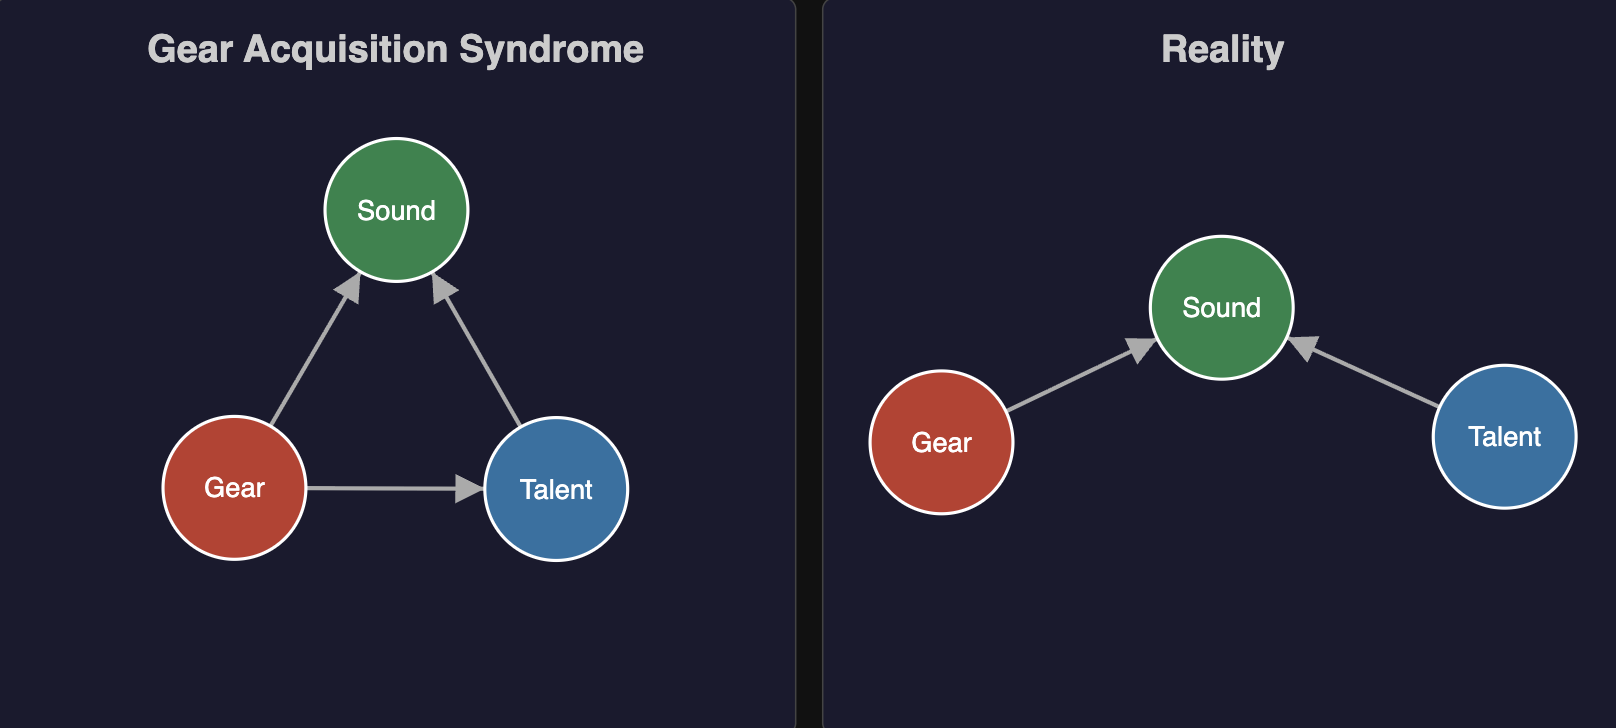
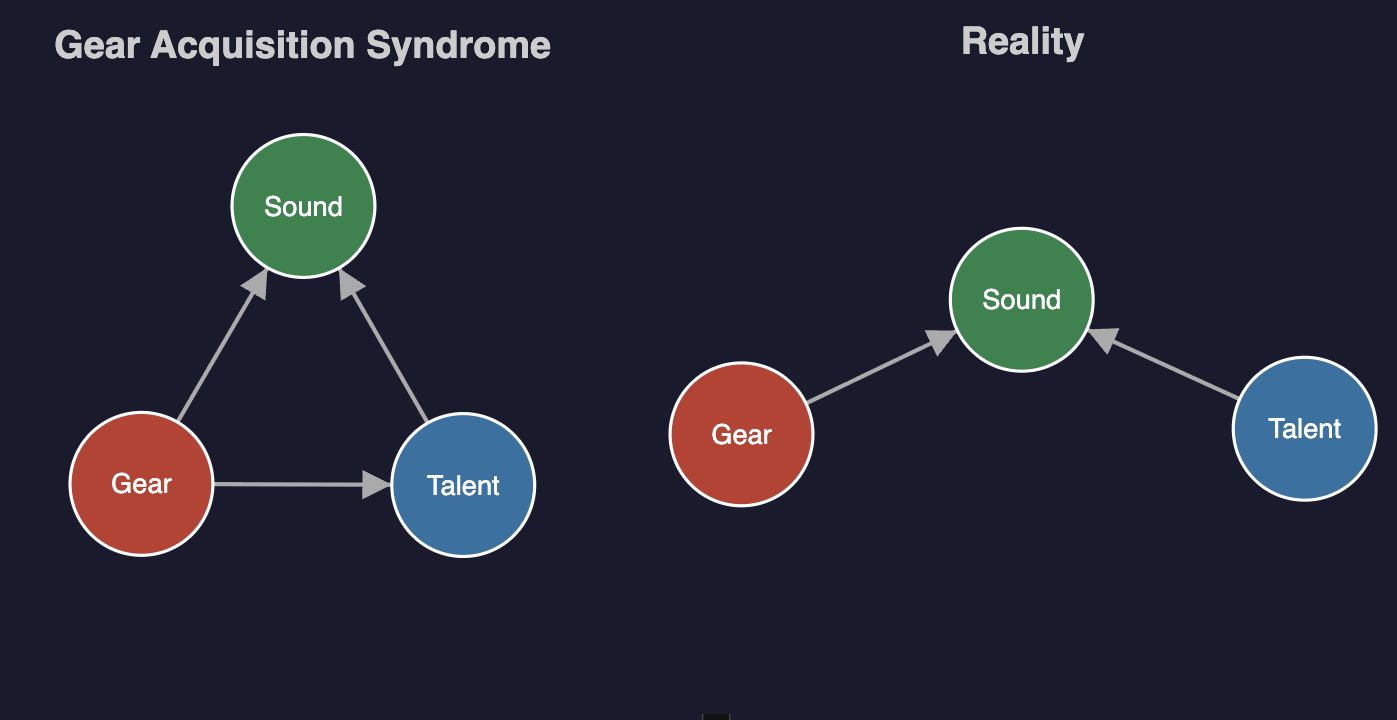
Built site for gh-pages

diff --git a/posts/CausalCatapult.html b/posts/CausalCatapult.html
@@ -178,13 +178,13 @@ window.Quarto = {
 <meta property="og:description" content="Launching over the walls of math">
 <meta property="og:image" content="https://drscotthawley.github.io/blog/posts/images/catapult.png">
 <meta property="og:site_name" content="Scott H. Hawley">
-<meta property="og:image:height" content="728">
-<meta property="og:image:width" content="1616">
+<meta property="og:image:height" content="720">
+<meta property="og:image:width" content="1397">
 <meta name="twitter:title" content="Catapulting into Causal Modeling [DRAFT] – Scott H. Hawley">
 <meta name="twitter:description" content="Launching over the walls of math">
 <meta name="twitter:image" content="https://drscotthawley.github.io/blog/posts/images/catapult.png">
-<meta name="twitter:image-height" content="728">
-<meta name="twitter:image-width" content="1616">
+<meta name="twitter:image-height" content="720">
+<meta name="twitter:image-width" content="1397">
 <meta name="twitter:card" content="summary_large_image">
 </head>
 
